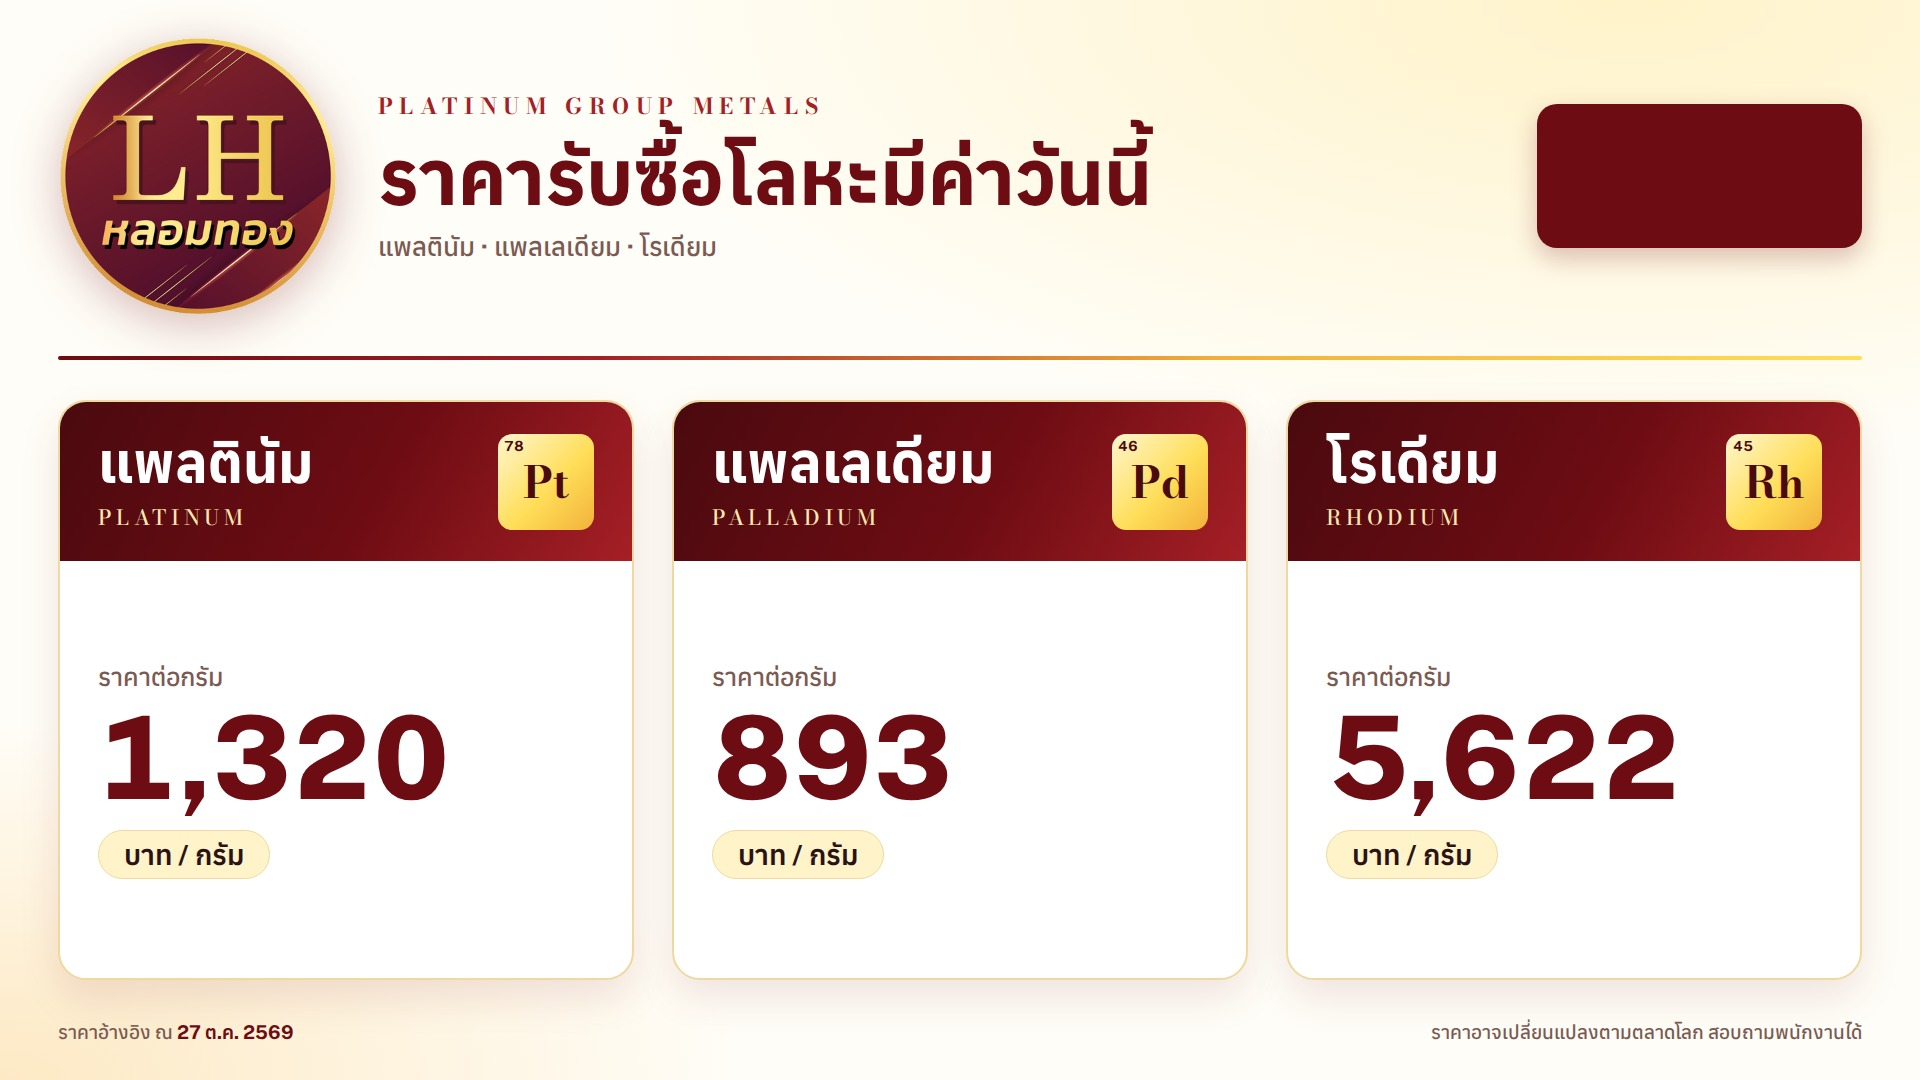
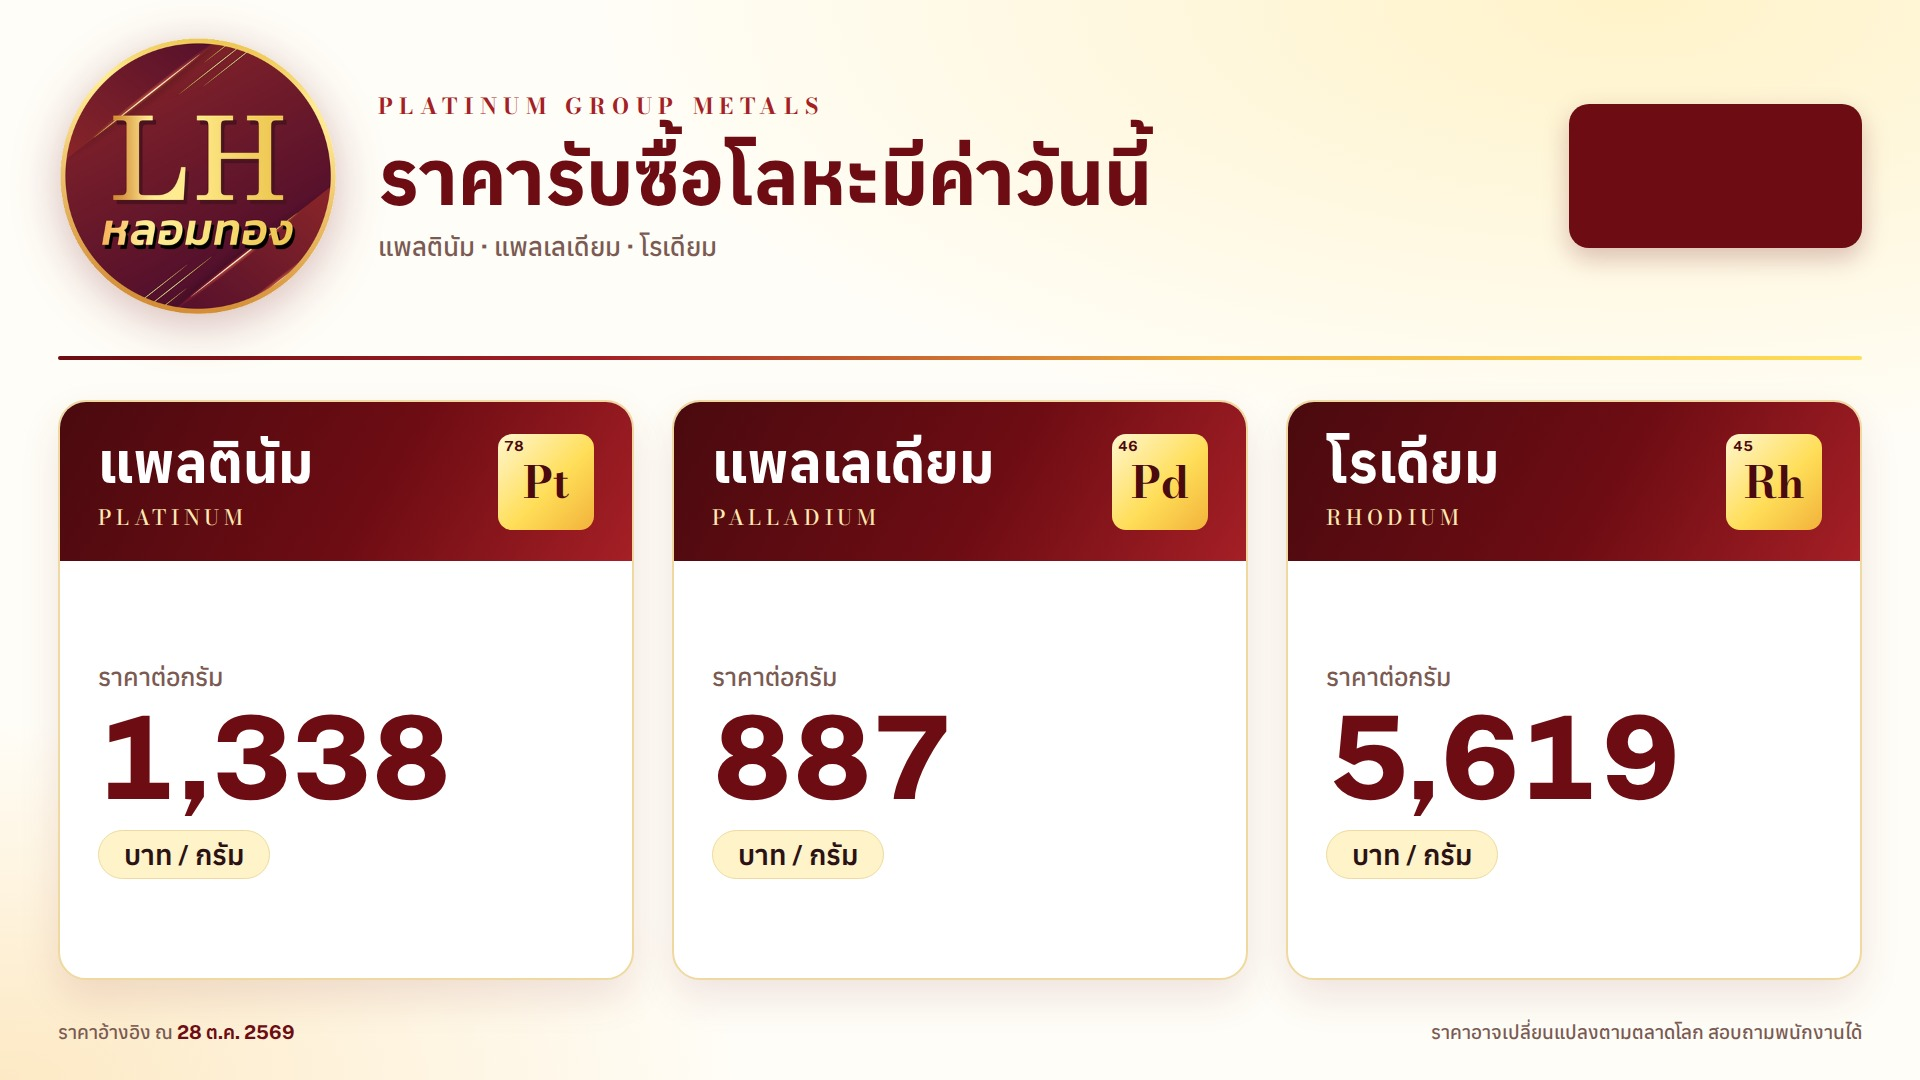
Update prices 2026-10-28

diff --git a/board.html b/board.html
@@ -211,14 +211,14 @@ html{-webkit-text-size-adjust:100%;text-size-adjust:100%}
      ราคาแต่ละเกรด = ราคาเงินหลังหัก × เปอร์เซ็นต์ (99.99% ใช้ราคาเต็ม)
    showSilver = เปิด/ปิดหน้าราคาเงิน, rotateSeconds = เปลี่ยนหน้าทุกกี่วินาที */
 const CONFIG = {
-  asOf: "27 ต.ค. 2569",
-  fx: 33.79,
+  asOf: "28 ต.ค. 2569",
+  fx: 33.77,
   discount: 0.20,
   rotateSeconds: 15,
   showSilver: true,
   metals: [
-    { th:"แพลตินัม",  en:"Platinum",  sym:"Pt", z:78, usdPerGram:48.8369 },
-    { th:"แพลเลเดียม", en:"Palladium", sym:"Pd", z:46, usdPerGram:33.0188 },
+    { th:"แพลตินัม",  en:"Platinum",  sym:"Pt", z:78, usdPerGram:49.5121 },
+    { th:"แพลเลเดียม", en:"Palladium", sym:"Pd", z:46, usdPerGram:32.8259 },
     { th:"โรเดียม",    en:"Rhodium",   sym:"Rh", z:45, usdPerGram:277.3, discount:0.40 }
   ],
   silver: { pricePerKg: 55000, grades: [95, 92.5, 90, 70, 50, 30] }
